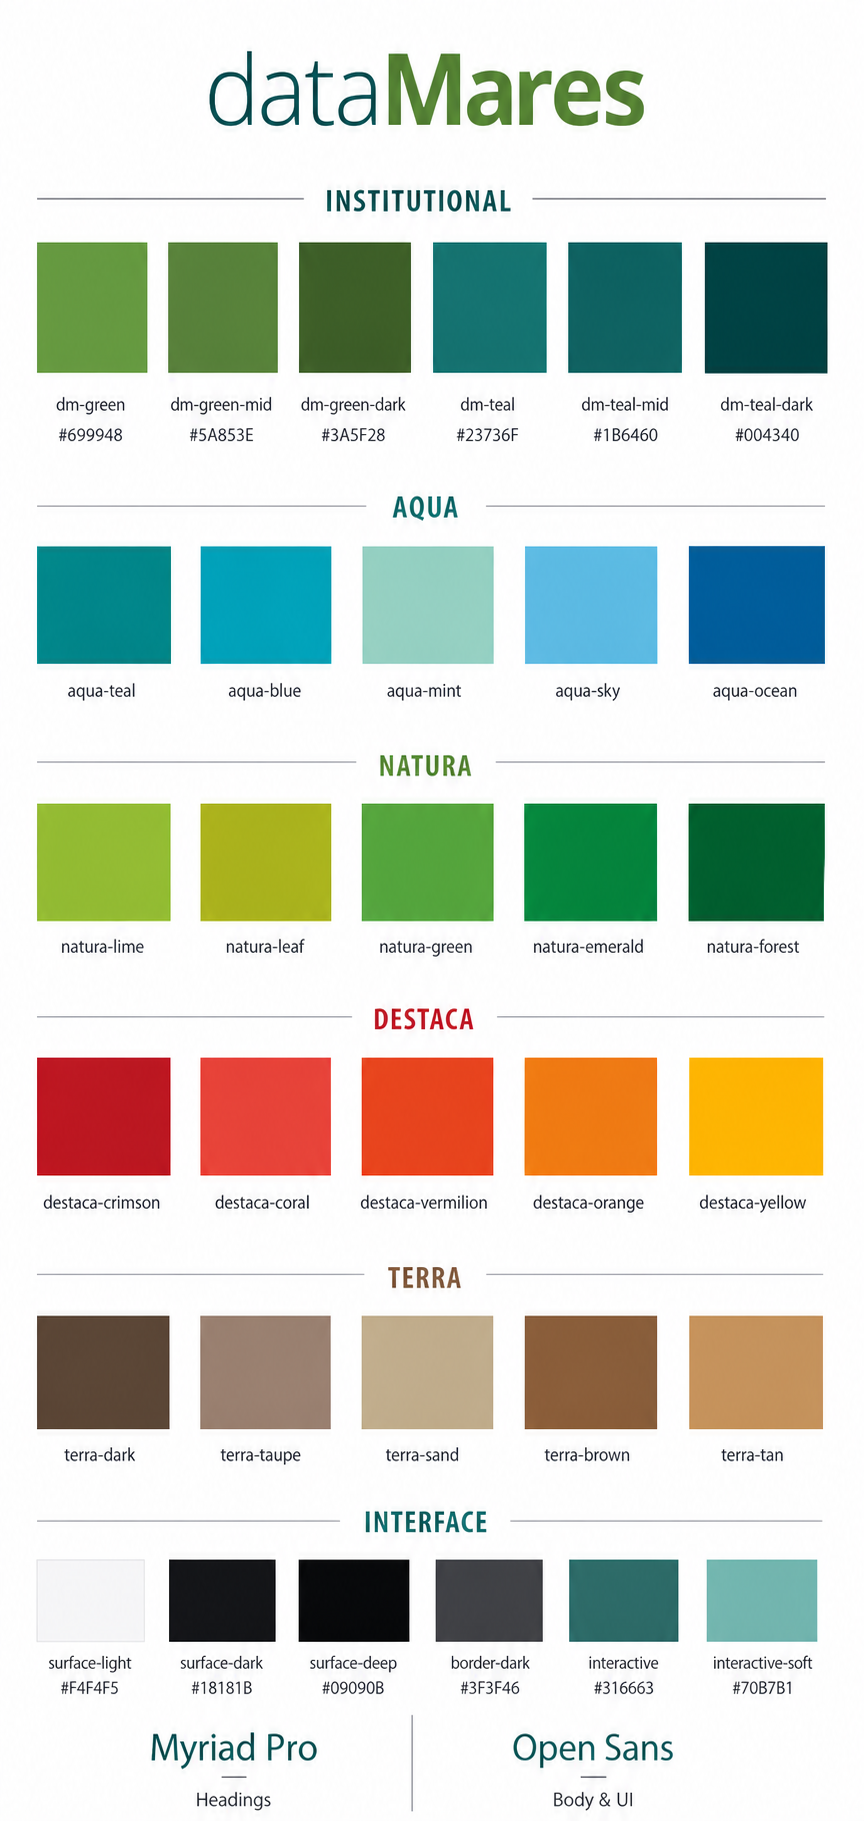
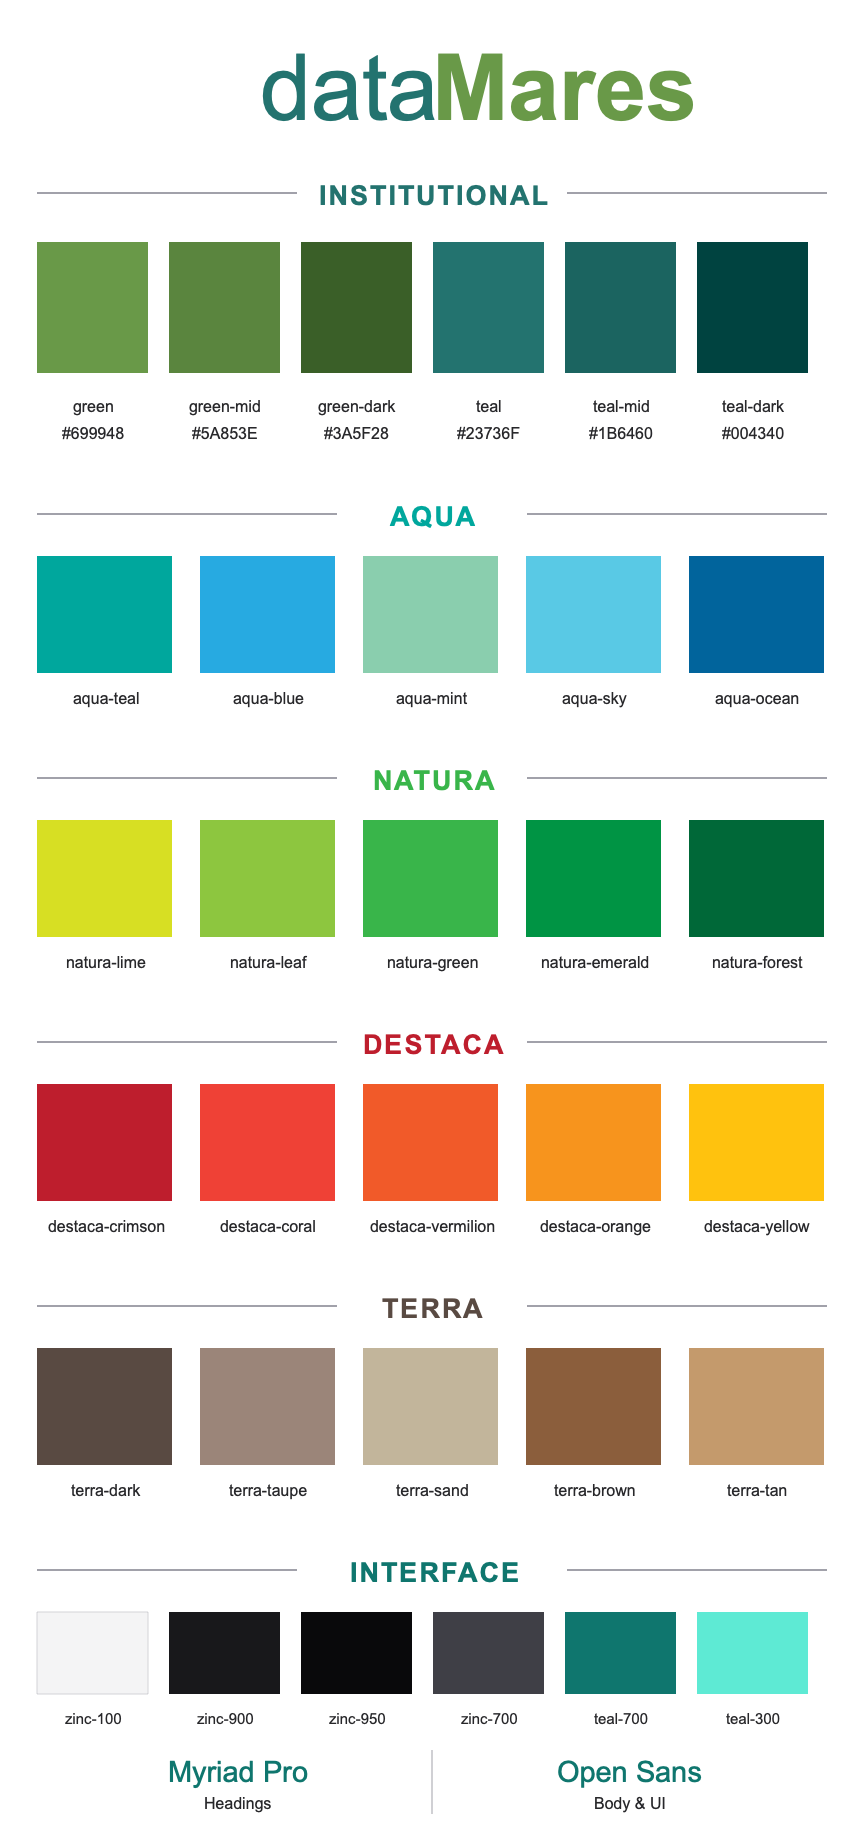
feat: centralize media helpers and standardize interface palette

diff --git a/src/components/Header/ui/MobileMenu.jsx b/src/components/Header/ui/MobileMenu.jsx
@@ -13,7 +13,7 @@ const MobileMenuItem = ({ item, closeMenu, openSubmenu }) => {
           onClick={() => openSubmenu(item)}
           className="flex min-h-12 w-full items-center justify-between gap-3 border-b border-zinc-200 px-4 py-3 text-left text-base font-medium text-zinc-950 transition-colors hover:bg-zinc-200 dark:border-zinc-700 dark:text-zinc-100 dark:hover:bg-zinc-700">
           <span>{item.label}</span>
-          <Icon name="chevronRight" className="size-5 shrink-0 text-[#316663] dark:text-[#70b7b1]" />
+          <Icon name="chevronRight" className="size-5 shrink-0 text-teal-700 dark:text-teal-300" />
         </button>
       </li>
     );
@@ -26,7 +26,7 @@ const MobileMenuItem = ({ item, closeMenu, openSubmenu }) => {
         onClick={closeMenu}
         className="block min-h-12 border-b border-zinc-200 px-4 py-3 text-base text-zinc-950 transition-colors hover:bg-zinc-200 dark:border-zinc-700 dark:text-zinc-100 dark:hover:bg-zinc-700">
         {item.label}
-        {item.scientificName && <span className="block text-sm text-[#316663] italic dark:text-[#70b7b1]">{item.scientificName}</span>}
+        {item.scientificName && <span className="block text-sm text-teal-700 italic dark:text-teal-300">{item.scientificName}</span>}
       </a>
     </li>
   );
@@ -65,7 +65,7 @@ const MobileMenu = ({ languageLinks, menu }) => {
         aria-label="Open main navigation"
         aria-expanded={isOpen}
         onClick={openMenu}
-        className="flex size-10 items-center justify-center rounded-full bg-white text-[#316663] shadow-sm transition-colors hover:bg-zinc-200 min-[900px]:hidden dark:bg-zinc-800 dark:text-[#70b7b1] dark:hover:bg-zinc-700">
+        className="flex size-10 items-center justify-center rounded-full bg-white text-teal-700 shadow-sm transition-colors hover:bg-zinc-200 min-[900px]:hidden dark:bg-zinc-800 dark:text-teal-300 dark:hover:bg-zinc-700">
         <Icon name="bars" className="size-6" />
       </button>
 
@@ -79,14 +79,14 @@ const MobileMenu = ({ languageLinks, menu }) => {
             className="absolute top-0 right-0 flex h-dvh w-[min(24rem,calc(100vw-2rem))] flex-col bg-zinc-100 shadow-xl dark:bg-zinc-900">
             <div className="flex min-h-16 items-center justify-between gap-3 border-b border-zinc-200 px-4 dark:border-zinc-700">
               <div className="flex min-w-0 items-center gap-3">
-                <p className="text-sm font-semibold tracking-wide text-[#316663] uppercase dark:text-[#70b7b1]">Menu</p>
+                <p className="text-sm font-semibold tracking-wide text-teal-700 uppercase dark:text-teal-300">Menu</p>
                 {languageLinks}
               </div>
               <button
                 type="button"
                 aria-label="Close main navigation"
                 onClick={closeMenu}
-                className="flex size-10 shrink-0 items-center justify-center rounded-full bg-white text-[#316663] shadow-sm transition-colors hover:bg-zinc-200 dark:bg-zinc-800 dark:text-[#70b7b1] dark:hover:bg-zinc-700">
+                className="flex size-10 shrink-0 items-center justify-center rounded-full bg-white text-teal-700 shadow-sm transition-colors hover:bg-zinc-200 dark:bg-zinc-800 dark:text-teal-300 dark:hover:bg-zinc-700">
                 <Icon name="close" className="size-6" />
               </button>
             </div>
@@ -95,7 +95,7 @@ const MobileMenu = ({ languageLinks, menu }) => {
               {breadcrumb.length > 0 && (
                 <ol className="flex items-center gap-1 overflow-x-auto border-b border-zinc-200 px-4 py-3 text-sm text-zinc-600 dark:border-zinc-700 dark:text-zinc-300">
                   <li>
-                    <button type="button" onClick={() => goToBreadcrumb(0)} className="font-medium whitespace-nowrap text-[#316663] dark:text-[#70b7b1]">
+                    <button type="button" onClick={() => goToBreadcrumb(0)} className="font-medium whitespace-nowrap text-teal-700 dark:text-teal-300">
                       Menu
                     </button>
                   </li>
@@ -106,7 +106,7 @@ const MobileMenu = ({ languageLinks, menu }) => {
                         type="button"
                         onClick={() => goToBreadcrumb(index + 1)}
                         className={`whitespace-nowrap ${
-                          index === breadcrumb.length - 1 ? "font-semibold text-zinc-950 dark:text-zinc-100" : "text-[#316663] dark:text-[#70b7b1]"
+                          index === breadcrumb.length - 1 ? "font-semibold text-zinc-950 dark:text-zinc-100" : "text-teal-700 dark:text-teal-300"
                         }`}>
                         {item.label}
                       </button>

diff --git a/src/components/ThemeSelector.jsx b/src/components/ThemeSelector.jsx
@@ -74,7 +74,7 @@ const ThemeSelector = () => {
     <div ref={containerRef} className="theme-selector fixed bottom-4 left-4 z-50">
       {isOpen && (
         <div
-          className="theme-selector__menu absolute bottom-full left-0 mb-2 w-40 overflow-hidden rounded-xl border border-gray-200 bg-white p-1 text-gray-900 shadow-xl dark:border-slate-700 dark:bg-slate-800 dark:text-gray-100"
+          className="theme-selector__menu absolute bottom-full left-0 mb-2 w-40 overflow-hidden rounded-xl border border-zinc-200 bg-white p-1 text-zinc-900 shadow-xl dark:border-zinc-700 dark:bg-zinc-800 dark:text-zinc-100"
           role="menu">
           {THEMES.map(({ value, label, icon }) => {
             const isSelected = preference === value;
@@ -91,8 +91,8 @@ const ThemeSelector = () => {
                 }}
                 className={`theme-selector__option flex w-full items-center gap-3 rounded-lg px-3 py-2 text-left text-sm font-semibold transition-colors ${
                   isSelected
-                    ? "bg-[#316663] text-white dark:bg-[#70b7b1] dark:text-slate-950"
-                    : "text-gray-600 hover:bg-gray-200 hover:text-gray-900 dark:text-slate-300 dark:hover:bg-slate-700 dark:hover:text-white"
+                    ? "bg-teal-700 text-white dark:bg-teal-300 dark:text-zinc-950"
+                    : "text-zinc-600 hover:bg-zinc-200 hover:text-zinc-900 dark:text-zinc-300 dark:hover:bg-zinc-700 dark:hover:text-white"
                 }`}>
                 <Icon name={icon} className="size-5" aria-hidden="true" />
                 {label}
@@ -108,7 +108,7 @@ const ThemeSelector = () => {
         aria-haspopup="menu"
         aria-expanded={isOpen}
         onClick={() => setIsOpen((current) => !current)}
-        className="theme-selector__trigger flex h-11 items-center gap-2 rounded-full border border-gray-200 bg-white px-4 text-sm font-bold tracking-wide text-[#316663] uppercase shadow-lg transition-all hover:scale-105 dark:border-slate-700 dark:bg-slate-800 dark:text-[#70b7b1]">
+        className="theme-selector__trigger flex h-11 items-center gap-2 rounded-full border border-zinc-200 bg-white px-4 text-sm font-bold tracking-wide text-teal-700 uppercase shadow-lg transition-all hover:scale-105 dark:border-zinc-700 dark:bg-zinc-800 dark:text-teal-300">
         <Icon name={selectedTheme.icon} className="size-5" aria-hidden="true" />
         {selectedTheme.label}
       </button>

diff --git a/src/styles/global.css b/src/styles/global.css
@@ -9,57 +9,6 @@
   --font-myriad: "Myriad Pro", "Arial Narrow", sans-serif;
   --font-open-sans: "Open Sans", Arial, sans-serif;
 
-  --color-dm-green: #699948;
-  --color-dm-green-mid: #5a853e;
-  --color-dm-green-dark: #3a5f28;
-  --color-dm-teal: #23736f;
-  --color-dm-teal-mid: #1b6460;
-  --color-dm-teal-dark: #004340;
-
-  --color-dm-aqua-teal: #00a79d;
-  --color-dm-aqua-teal-mid: #028c9e;
-  --color-dm-aqua-teal-dark: #01789e;
-  --color-dm-aqua-blue: #27aae1;
-  --color-dm-aqua-mint: #8aceae;
-  --color-dm-aqua-sky: #59c9e5;
-  --color-dm-aqua-ocean: #01649c;
-
-  --color-dm-natura-lime: #d7df23;
-  --color-dm-natura-lime-mid: #b0b91d;
-  --color-dm-natura-lime-dark: #8b9414;
-  --color-dm-natura-leaf: #8dc63f;
-  --color-dm-natura-leaf-mid: #73a533;
-  --color-dm-natura-leaf-dark: #598527;
-  --color-dm-natura-green: #39b54a;
-  --color-dm-natura-green-mid: #2c973e;
-  --color-dm-natura-green-dark: #197b30;
-  --color-dm-natura-emerald: #009444;
-  --color-dm-natura-emerald-mid: #007b38;
-  --color-dm-natura-emerald-dark: #006129;
-  --color-dm-natura-forest: #006838;
-  --color-dm-natura-forest-mid: #005129;
-  --color-dm-natura-forest-dark: #003a17;
-
-  --color-dm-destaca-crimson: #be1e2d;
-  --color-dm-destaca-coral: #ef4136;
-  --color-dm-destaca-vermilion: #f15a29;
-  --color-dm-destaca-orange: #f7941d;
-  --color-dm-destaca-yellow: #ffc20e;
-
-  --color-dm-terra-dark: #594a42;
-  --color-dm-terra-taupe: #9b8579;
-  --color-dm-terra-sand: #c2b59b;
-  --color-dm-terra-brown: #8b5e3c;
-  --color-dm-terra-tan: #c49a6c;
-
-  --color-dm-interactive: #316663;
-  --color-dm-interactive-soft: #70b7b1;
-  --color-dm-surface-light: #f4f4f5;
-  --color-dm-border-light: #e4e4e7;
-  --color-dm-text-light: #18181b;
-  --color-dm-surface-dark: #18181b;
-  --color-dm-surface-deep: #09090b;
-  --color-dm-border-dark: #3f3f46;
 }
 
 html,

diff --git a/src/components/Home/CarrouselBanners.jsx b/src/components/Home/CarrouselBanners.jsx
@@ -1,19 +1,15 @@
 import React from "react";
 import "@splidejs/react-splide/css/core";
 import { Splide, SplideSlide } from "@splidejs/react-splide";
+import { getAbsoluteUrl, getImageSrcSet } from "../../utils/media";
 
-const toAbsoluteUrl = (url, strapiUrl) => {
-  if (!url || url.startsWith("http")) return url;
-  return new URL(url, strapiUrl).toString();
-};
-
-const CarrouselBanners = ({ data, strapiUrl }) => {
+const CarrouselBanners = ({ data }) => {
   const splides = [];
 
   data?.Carrousel?.forEach((banner) => {
     banner.Image
       ? splides.push({
-          url: toAbsoluteUrl(banner.Image.url, strapiUrl),
+          url: getAbsoluteUrl(banner.Image.url),
           width: banner.Image.width,
           height: banner.Image.height,
           formats: banner.Image.formats,
@@ -21,7 +17,7 @@ const CarrouselBanners = ({ data, strapiUrl }) => {
         })
       : banner.data_contents?.forEach((banner) => {
           splides.push({
-            url: toAbsoluteUrl(banner.Banner.url, strapiUrl),
+            url: getAbsoluteUrl(banner.Banner.url),
             width: banner.Banner.width,
             height: banner.Banner.height,
             formats: banner.Banner.formats,
@@ -46,11 +42,7 @@ const CarrouselBanners = ({ data, strapiUrl }) => {
       }}
       aria-label="Banners Carrousel">
       {splides.map((splide) => {
-        const srcSet = Object.values(splide.formats || {})
-          .filter((format) => format?.url && format.width)
-          .map((format) => `${toAbsoluteUrl(format.url, strapiUrl)} ${format.width}w`)
-          .concat(splide.url && splide.width ? `${splide.url} ${splide.width}w` : [])
-          .join(", ");
+        const srcSet = getImageSrcSet(splide);
 
         return (
           <SplideSlide className="h-full" key={splide.hash || splide.url}>

diff --git a/src/components/Header/ui/Link.jsx b/src/components/Header/ui/Link.jsx
@@ -1,13 +1,13 @@
 import React from "react";
 
-const Link = ({ label, page, bgHover, scientificName }) => {
+const Link = ({ label, page, scientificName }) => {
   return (
     <li>
       <a
         href={`${page}`}
-        className={`block w-full rounded-md bg-zinc-100 px-3 py-1 whitespace-nowrap transition-colors dark:bg-zinc-900 dark:text-zinc-100 dark:focus-within:bg-zinc-700 dark:hover:bg-zinc-700 focus-within:${bgHover} hover:${bgHover}`}>
+        className="block w-full rounded-md bg-zinc-100 px-3 py-1 whitespace-nowrap transition-colors focus-within:bg-zinc-200 hover:bg-zinc-200 dark:bg-zinc-900 dark:text-zinc-100 dark:focus-within:bg-zinc-700 dark:hover:bg-zinc-700">
         {label}
-        {scientificName && <span className="text-[#316663] italic dark:text-[#70b7b1]"> ({scientificName})</span>}
+        {scientificName && <span className="text-teal-700 italic dark:text-teal-300"> ({scientificName})</span>}
       </a>
     </li>
   );

diff --git a/src/Assets/InstagramIcon.jsx b/src/Assets/InstagramIcon.jsx
@@ -6,7 +6,7 @@ export default function InstagramIcon({ link, size }) {
       <a
         href={link}
         aria-label="Mail"
-        className="block rounded-full bg-[#316564] p-2 transition-transform duration-150 focus-within:scale-105 focus-within:bg-[#2A5855] hover:scale-105 hover:bg-[#2A5855]">
+        className="block rounded-full bg-teal-700 p-2 transition-transform duration-150 focus-within:scale-105 focus-within:bg-teal-800 hover:scale-105 hover:bg-teal-800">
         <svg xmlns="http://www.w3.org/2000/svg" className={size} viewBox="0 0 24 24">
           <g fill="none" className="stroke-white" strokeLinecap="round" strokeLinejoin="round" strokeWidth="2">
             <rect width="20" height="20" x="2" y="2" rx="5" ry="5" />

diff --git a/src/components/Header/ui/SubMenu.jsx b/src/components/Header/ui/SubMenu.jsx
@@ -24,7 +24,7 @@ const SubMenu = ({ label, children, bgColor = "zinc", nested = false }) => {
         className={`z-10 flex cursor-pointer items-center rounded-md px-3 py-1 transition-colors ${nested ? "w-full justify-between" : ""} ${buttonColorClass}`}>
         <p className="whitespace-nowrap">{label}</p>
 
-        <Icon name="chevronDown" className={`size-5 text-[#316663] transition-transform dark:text-[#70b7b1] ${arrowClass}`} />
+        <Icon name="chevronDown" className={`size-5 text-teal-700 transition-transform dark:text-teal-300 ${arrowClass}`} />
       </button>
 
       <ul className={`absolute hidden w-max max-w-[24rem] rounded-md bg-zinc-100 bg-clip-content shadow-md dark:bg-zinc-900 ${submenuClass}`}>{children}</ul>

diff --git a/src/Assets/FacebookIcon.jsx b/src/Assets/FacebookIcon.jsx
@@ -6,7 +6,7 @@ const FacebookIcon = ({ link, size }) => (
       href={link}
       aria-label="Facebook"
       target="_blank"
-      className="block rounded-full bg-[#316564] p-2 transition-transform duration-150 focus-within:scale-105 focus-within:bg-[#2A5855] hover:scale-105 hover:bg-[#2A5855]">
+      className="block rounded-full bg-teal-700 p-2 transition-transform duration-150 focus-within:scale-105 focus-within:bg-teal-800 hover:scale-105 hover:bg-teal-800">
       <svg xmlns="http://www.w3.org/2000/svg" className={size} viewBox="0 0 24 24">
         <path className="fill-white" d="M9.198 21.5h4v-8.01h3.604l.396-3.98h-4V7.5a1 1 0 0 1 1-1h3v-4h-3a5 5 0 0 0-5 5v2.01h-2l-.396 3.98h2.396z"></path>
       </svg>

diff --git a/src/utils/media.js b/src/utils/media.js
@@ -1,0 +1,20 @@
+const strapiUrl = import.meta.env.PUBLIC_STRAPI_URL?.replace(/\/$/, "");
+
+export const getAbsoluteUrl = (url) => {
+  if (!url || /^https?:\/\//i.test(url)) return url;
+  if (!strapiUrl) return url;
+
+  return new URL(url, strapiUrl).toString();
+};
+
+export const getImageSrcSet = (image) => {
+  const formats = Object.values(image?.formats ?? {})
+    .filter((format) => format?.url && format.width)
+    .map((format) => `${getAbsoluteUrl(format.url)} ${format.width}w`);
+
+  if (image?.url && image.width) {
+    formats.push(`${getAbsoluteUrl(image.url)} ${image.width}w`);
+  }
+
+  return formats.join(", ");
+};

diff --git a/src/Assets/TwitterIcon.jsx b/src/Assets/TwitterIcon.jsx
@@ -6,7 +6,7 @@ const TwitterIcon = ({ link, size }) => (
       href={link}
       aria-label="Twitter"
       target="_blank"
-      className="block rounded-full bg-[#316564] p-2 transition-transform duration-150 focus-within:scale-105 focus-within:bg-[#2A5855] hover:scale-105 hover:bg-[#2A5855]">
+      className="block rounded-full bg-teal-700 p-2 transition-transform duration-150 focus-within:scale-105 focus-within:bg-teal-800 hover:scale-105 hover:bg-teal-800">
       <svg xmlns="http://www.w3.org/2000/svg" className={size} viewBox="0 0 14 14">
         <g fill="none">
           <g clipPath="url(#SVGG1Ot4cAD)">

diff --git a/src/Assets/MailIcon.jsx b/src/Assets/MailIcon.jsx
@@ -6,7 +6,7 @@ const MailIcon = ({ link, size }) => {
       <a
         href={link}
         aria-label="Mail"
-        className="block rounded-full bg-[#316564] p-2 transition-transform duration-150 focus-within:scale-105 focus-within:bg-[#2A5855] hover:scale-105 hover:bg-[#2A5855]">
+        className="block rounded-full bg-teal-700 p-2 transition-transform duration-150 focus-within:scale-105 focus-within:bg-teal-800 hover:scale-105 hover:bg-teal-800">
         <svg xmlns="http://www.w3.org/2000/svg" className={size} viewBox="0 0 20 20">
           <path
             className="fill-white"

diff --git a/src/components/Header/ui/helpers/renderMenuItem.jsx b/src/components/Header/ui/helpers/renderMenuItem.jsx
@@ -13,7 +13,7 @@ const renderMenuItem = (item, nested = false) => {
     );
   }
 
-  return <Link key={item.page ?? item.label} scientificName={item.scientificName} bgHover="bg-zinc-200" label={item.label} page={item.page} />;
+  return <Link key={item.page ?? item.label} scientificName={item.scientificName} label={item.label} page={item.page} />;
 };
 
 export default renderMenuItem;
